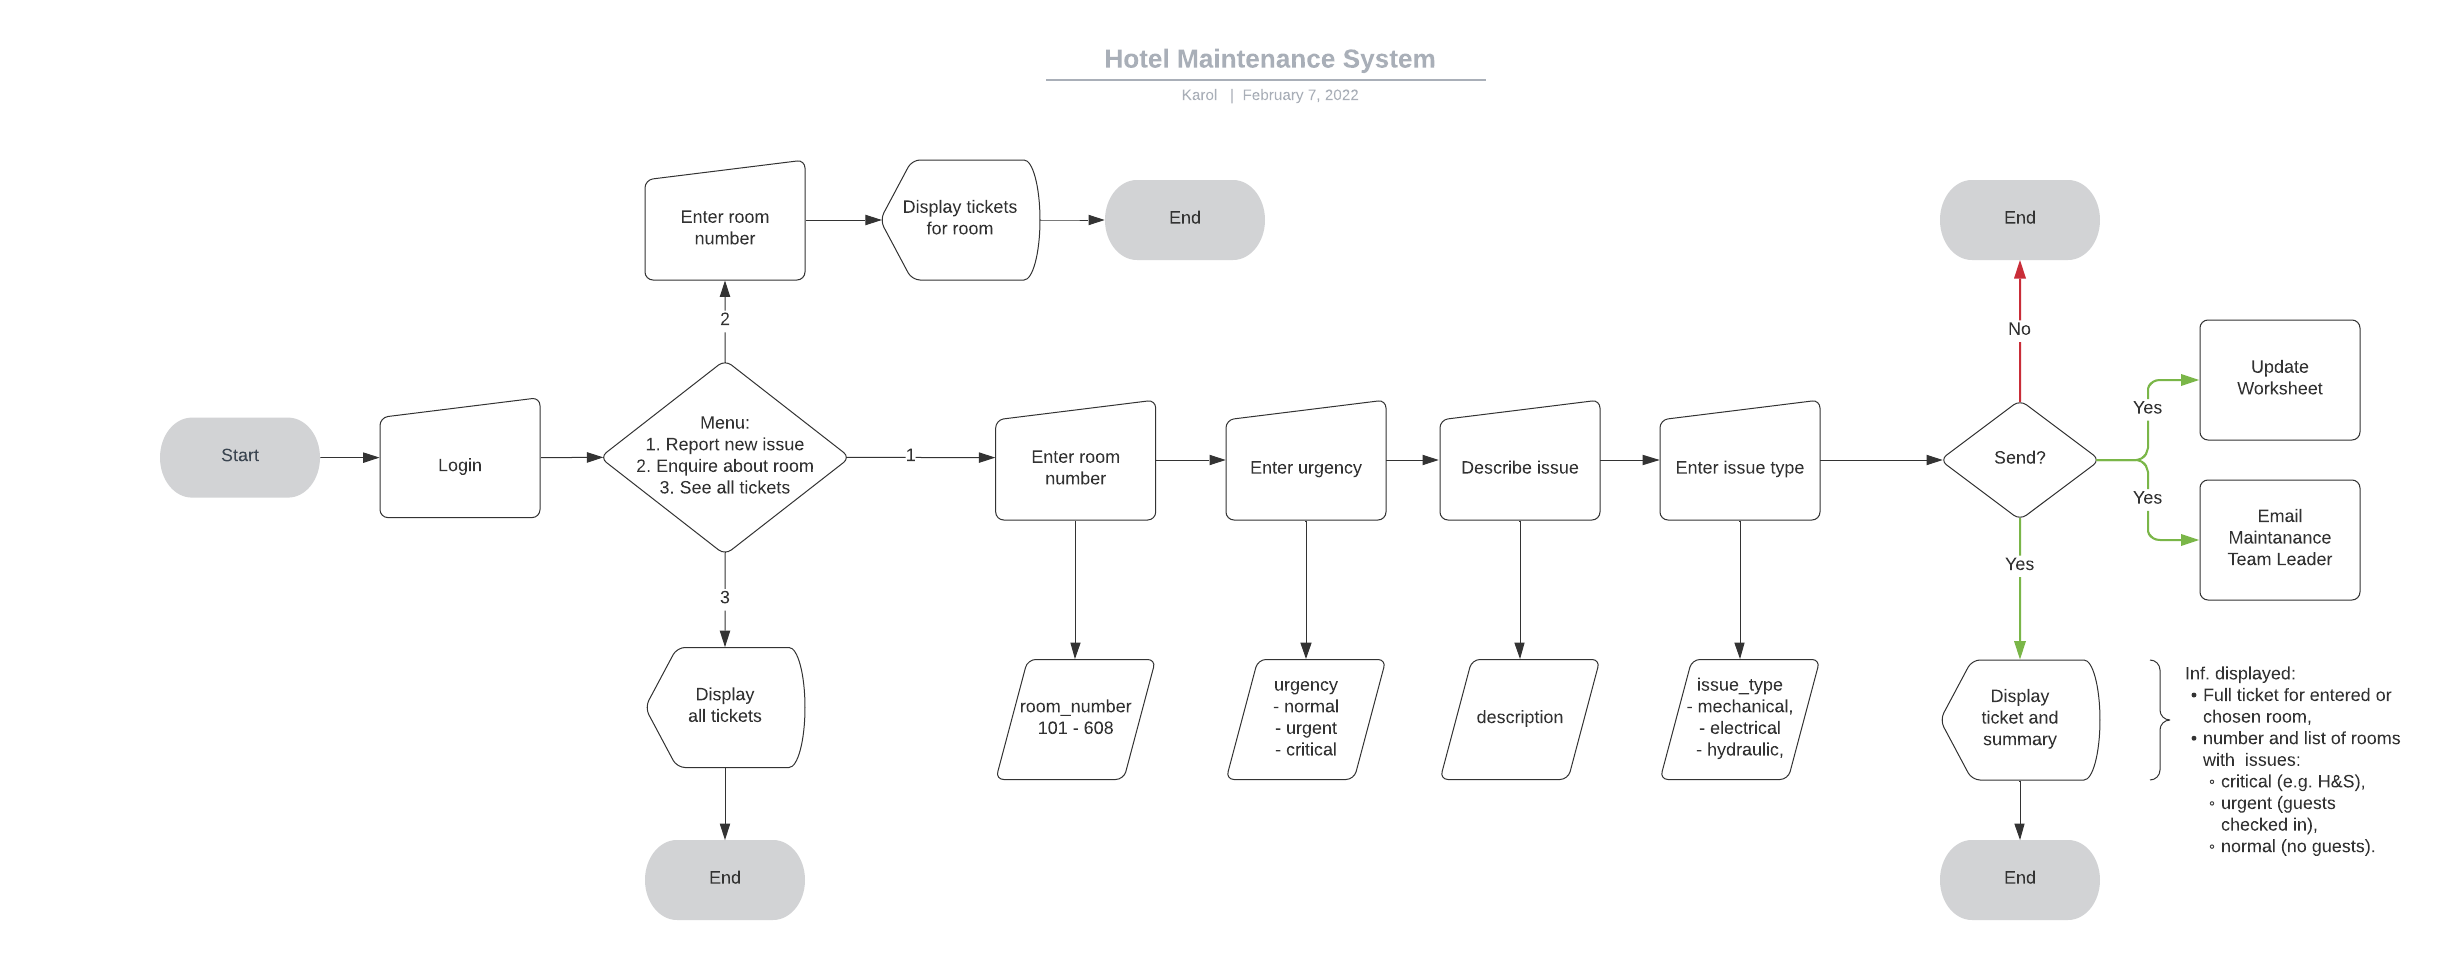
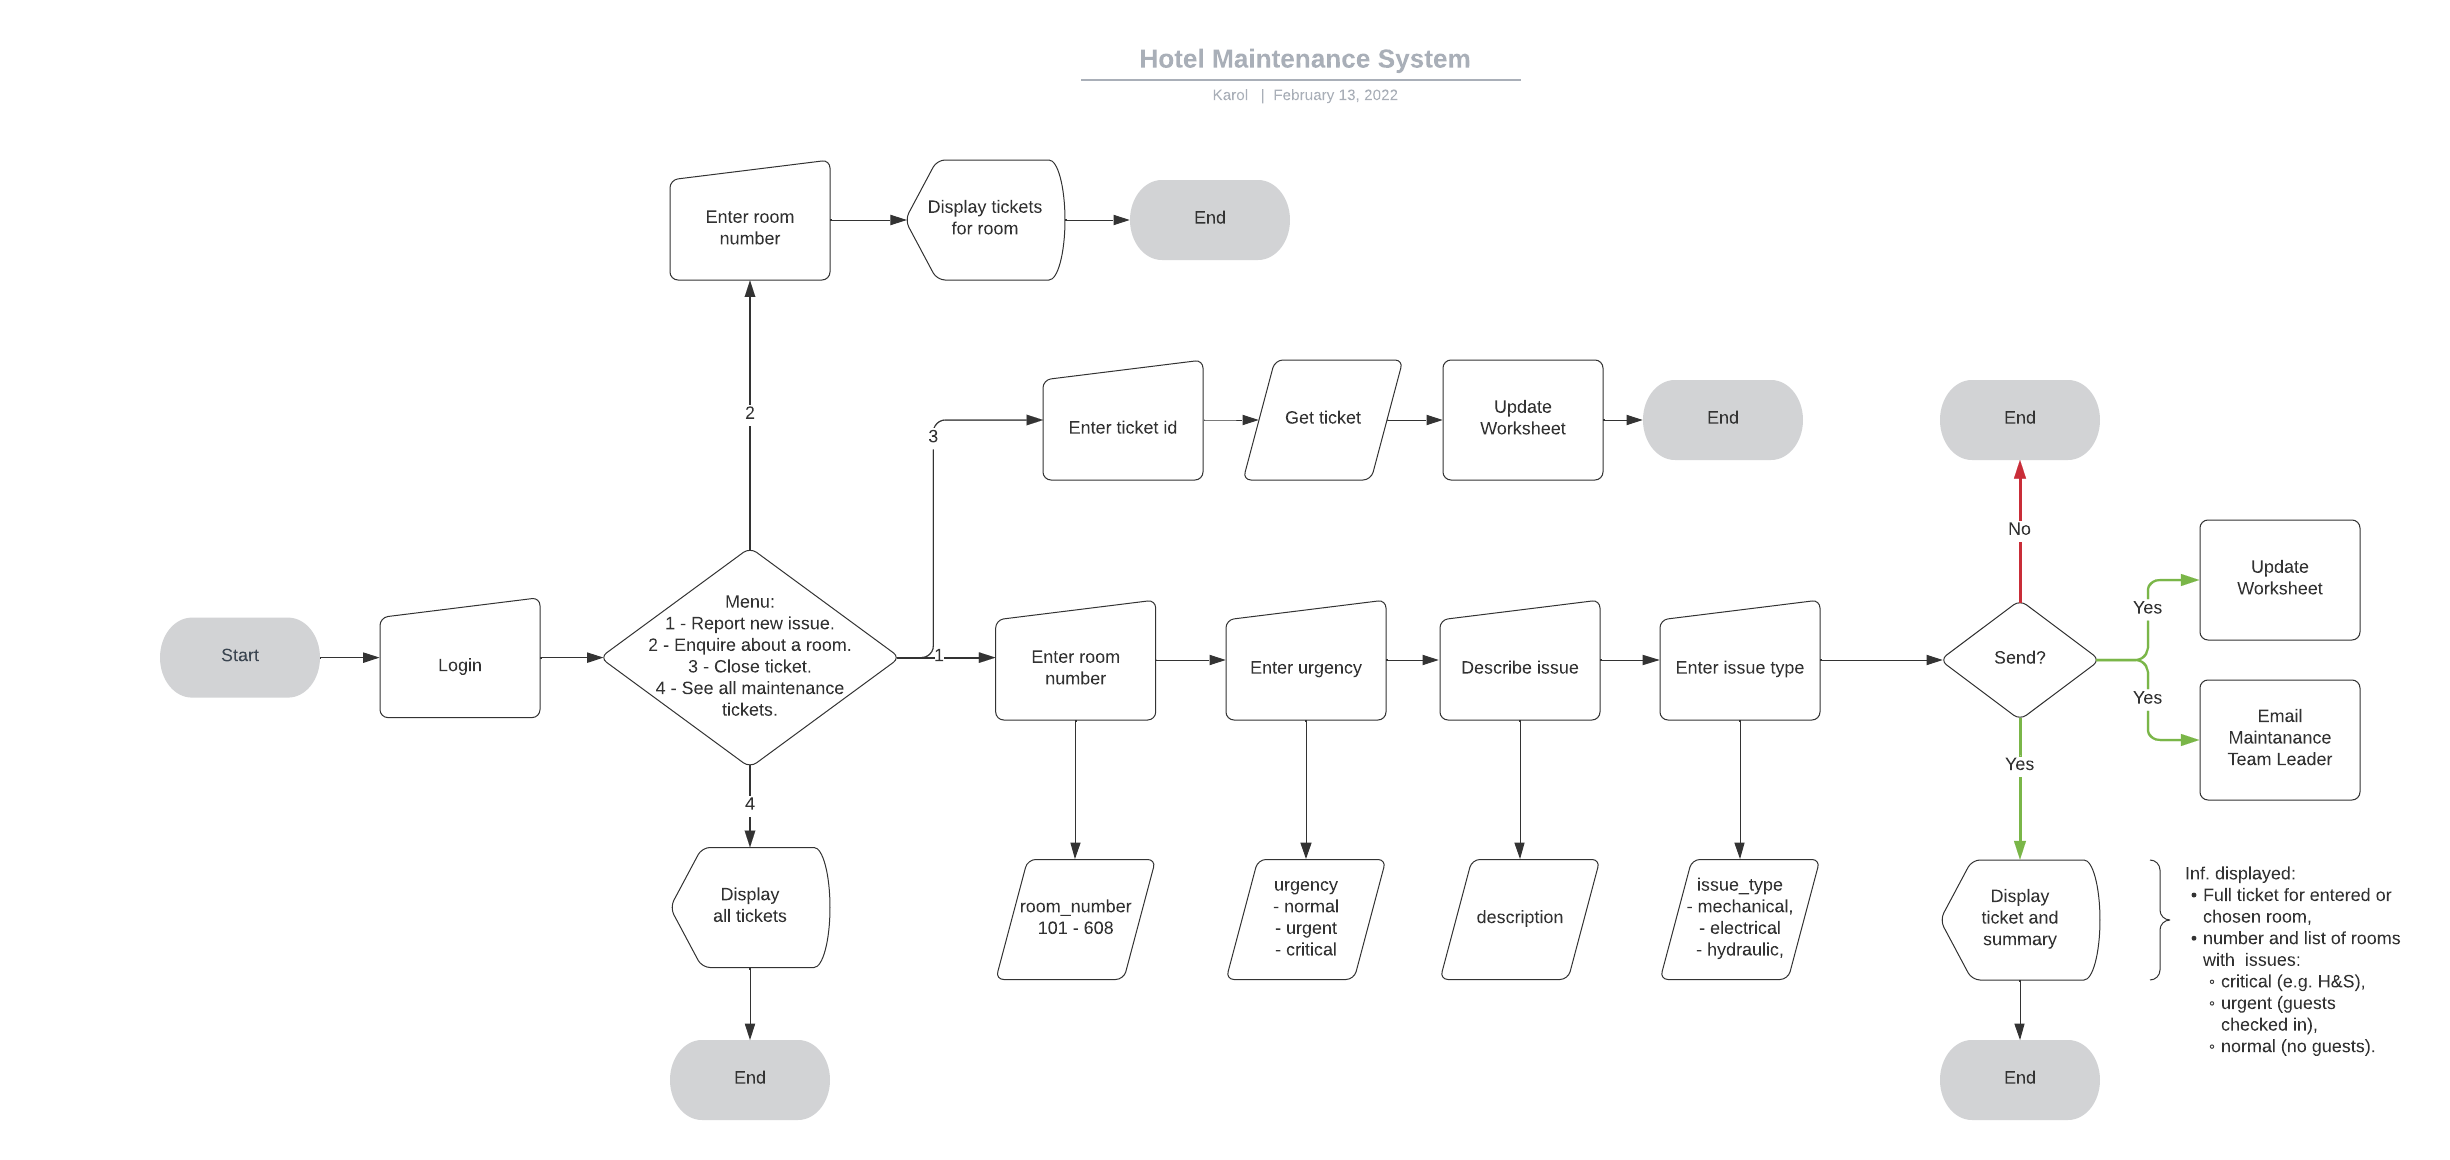
Update Scope and Functionality in README and fix minor issues

diff --git a/ticket.py b/ticket.py
@@ -1,5 +1,4 @@
 # Python imports
-from collections import Counter
 import datetime
 
 # external libraries imports
@@ -40,8 +39,8 @@ def validate_yes_no_question(answer: str) -> bool:
 def get_urgency() -> str:
     """
     Get new issue urgency from user.
-    Run a while loop to collect a valid urgency for the new ticket 
-    from the user via the terminal, 
+    Run a while loop to collect a valid urgency for the new ticket
+    from the user via the terminal,
     which must be a letter:
     c - for critical,
     u - for urgent,
@@ -74,7 +73,7 @@ def get_urgency() -> str:
 def validate_urgency(urgency: str) -> bool:
     """
     Checks validity of urgency entered by user.
-    Returns ValueError if entered value 
+    Returns ValueError if entered value
     is not in correct format.
     @param urgency(str): Ticket urgency in form of one letter
     c - for critical, u - for urgent, or n - for normal.
@@ -183,7 +182,7 @@ def validate_issue_type(type: str) -> bool:
 def should_send_ticket() -> bool:
     """
     Ask if user wants to submit new ticket.
-    Returns True or False depending on 
+    Returns True or False depending on
     whether user confirms sending ticket to the system.
     """
     while True:
@@ -214,7 +213,7 @@ def create_ticket(
     """
     # set default status as open
     status = "open"
-   
+
     # use timestamp as unique ticket id
     now = datetime.datetime.now()
     ticket_id = now.strftime("%y%m%d-%H%M")
@@ -344,14 +343,11 @@ def show_ticket_by_id(ticket_id_entered: str):
     # remove status column from view
     ticket_closed.pop(4)
     tickets_headers.pop(4)
-    
+
     # build and show table
     print("")
     print(tabulate([ticket_closed], tickets_headers))
     print("")
-
-
-# show_ticket_by_id("220211-1517")
 
 
 def to_main_menu() -> bool:

diff --git a/README.md b/README.md
@@ -68,7 +68,8 @@
 
 In first release the scope is to deliver mechanisms to:
 - Report new issues. 
-- Enquire about specific rooms. 
+- Enquire about specific rooms.
+- Change status of a ticket from open to closed.
 - See all maintenance tickets with a brief summary.
 - Notify Leader of the Maintenance Team about new issues by email.
 - Store tickets in a Google Worksheet.
@@ -151,16 +152,23 @@ Upon starting the program user is presented with the welcome screen showing the 
 After correct login user is presented with The Main Menu  where they may choose the option for further interaction with the system:
 1 - Report new issue.
 2 - Enquire about a room.
-3 - See all maintenance tickets.
+3 - Close ticket.
+4 - See all maintenance tickets.
 
 <details><summary>Main Menu screenshot</summary>
 <img src="docs/screenshots/menu_screenshot.png"></details>
 
 ### Option 1- Report new issue
-After chosing Option 1 - Report new issue, user answers four questions. Each question is accompanied by a brief instruction on allowed format of the answer. Each answer is validated, question is repeated until user enters valid answer upon which next question is presented. This allows maintaining consistency of data in worksheet where data is stored. Screenshot below shows request for room number. Exemplary hotel has 6 floors which inforces the first digit to be between 1-6, followed by 0, then the number of the room on given floor which is between 1-8. This is the customary room format in the hospitality business. 
+After chosing Option 1 - Report new issue, user answers four questions. Each question is accompanied by a brief instruction on allowed format of the answer. Each answer is validated, question is repeated until user enters valid answer upon which next question is presented. This allows maintaining consistency of data in worksheet where data is stored. Screenshot below shows request for room number. Exemplary hotel has 6 floors which inforces the first digit to be between 1-6, followed by 0, then the number of the room on given floor which is between 1-8. This is the customary room format in the hospitality business.
 
-<details><summary>Option 1 screenshot</summary>
-<img src="docs/screenshots/option1_screenshot.png"></details>
+After answering four questions about the issue user has a chance to resign or submit the new ticket. 
+
+Upon submitting the new ticket system shows confirmation about successful operation. Additionally a brief summary is shown for the affected room, showing a table with open tickets related to the room in question. 
+
+<details><summary>Option 1 screenshots</summary>
+<img src="docs/screenshots/option1_screenshot.png">
+
+<img src="docs/screenshots/option1a_screenshot.png"></details>
 
 **This functionality covers the following user stories:**
 
@@ -171,7 +179,7 @@ After chosing Option 1 - Report new issue, user answers four questions. Each que
 11\. As a site owner I want the Maintenance Team to have fast and accurate information on current issues around the property.
 
 ### Email communication
-After user enters all details for the ticket and confirming the wish to send the ticket, the data is uploaded to Google Sheets and email is sent to a Maintenance Team Leader. This allows for fast communication between teams and rapid response on the Maintenance Team side. For this functionality [Zapier](https://zapier.com/app/zaps) service in conjunction with Google Sheets is used. 
+After user entered all details for the ticket and confirmed the wish to send the ticket, the data is uploaded to Google Sheets and email is sent to a Maintenance Team Leader. This allows for fast communication between teams and rapid response on the Maintenance Team side. For this functionality [Zapier](https://zapier.com/app/zaps) service in conjunction with Google Sheets is used. Email is sent after a new row is added in the tickets worksheet.
 
 <details><summary>Email example screenshot</summary>
 <img src="docs/screenshots/email_screenshot.png"></details>
@@ -215,7 +223,7 @@ When this option is chosen the user enters specific ticket id. If this is unknow
 When Option 4 is chosen the user is presented with the list of tickets related with all rooms and areas of the establishment in form of a table. The information is accompanied by a brief summary showing total number of tickets and their breakdown based on their urgency. 
 
 <details><summary>Option 4 screenshot</summary>
-<img src="docs/screenshots/option3_screenshot.png"></details>
+<img src="docs/screenshots/option4_screenshot.png"></details>
 
 **This functionality covers the following user stories:**
 
